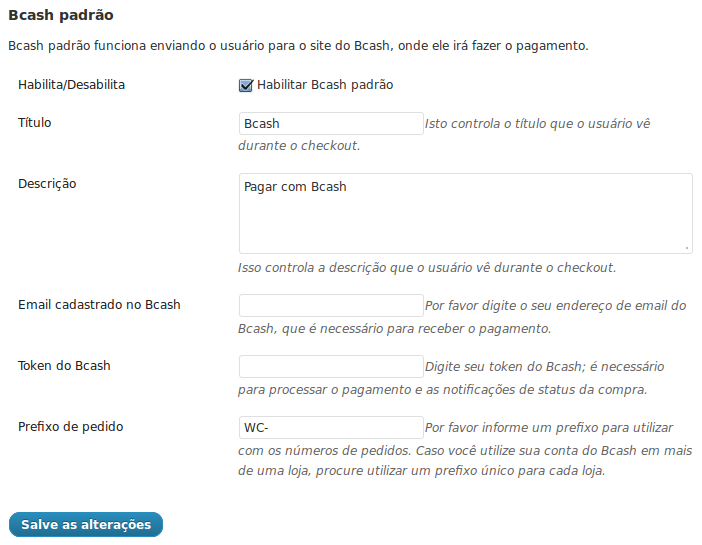
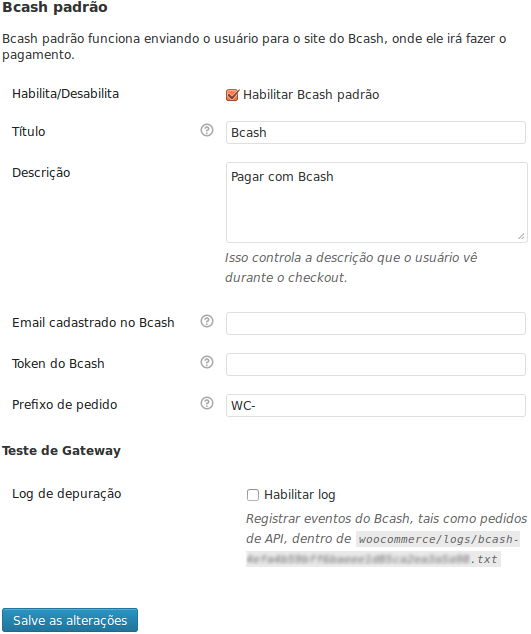
updated the plugin version to 1.6.0
git-svn-id: https://plugins.svn.wordpress.org/woocommerce-bcash/trunk@746842 b8457f37-d9ea-0310-8a92-e5e31aec5664

diff --git a/class-wc-bcash-gateway.php b/class-wc-bcash-gateway.php
@@ -19,7 +19,7 @@ class WC_BCash_Gateway extends WC_Payment_Gateway {
         $this->has_fields     = false;
         $this->method_title   = __( 'Bcash', 'wcbcash' );
 
-        // API Urls.
+        // API URLs.
         $this->payment_url    = 'https://www.bcash.com.br/checkout/pay/';
         $this->ipn_url        = 'https://www.bcash.com.br/checkout/verify/';
 
@@ -82,13 +82,10 @@ class WC_BCash_Gateway extends WC_Payment_Gateway {
         echo '<h3>' . __( 'Bcash standard', 'wcbcash' ) . '</h3>';
         echo '<p>' . __( 'Bcash standard works by sending the user to Bcash to enter their payment information.', 'wcbcash' ) . '</p>';
 
+        // Checks if is valid for use.
         if ( ! $this->is_valid_for_use() ) {
-
-            // Valid currency.
-            echo '<div class="inline error"><p><strong>' . __( 'Gateway Disabled', 'wcbcash' ) . '</strong>: ' . __( 'Bcash does not support your store currency.', 'wcbcash' ) . '</p></div>';
-
+            echo '<div class="inline error"><p><strong>' . __( 'Bcash Disabled', 'wcbcash' ) . '</strong>: ' . __( 'Works only with Brazilian Real.', 'wcbcash' ) . '</p></div>';
         } else {
-
             // Generate the HTML For the settings form.
             echo '<table class="form-table">';
             $this->generate_settings_html();
@@ -147,14 +144,14 @@ class WC_BCash_Gateway extends WC_Payment_Gateway {
             'testing' => array(
                 'title' => __( 'Gateway Testing', 'wcbcash' ),
                 'type' => 'title',
-                'description' => '',
+                'description' => ''
             ),
             'debug' => array(
                 'title' => __( 'Debug Log', 'wcbcash' ),
                 'type' => 'checkbox',
                 'label' => __( 'Enable logging', 'wcbcash' ),
                 'default' => 'no',
-                'description' => sprintf( __( 'Log Bcash events, such as API requests, inside %s', 'wcbcash' ), '<code>woocommerce/logs/moip' . sanitize_file_name( wp_hash( 'bcash' ) ) . '.txt</code>' ),
+                'description' => sprintf( __( 'Log Bcash events, such as API requests, inside %s', 'wcbcash' ), '<code>woocommerce/logs/bcash-' . sanitize_file_name( wp_hash( 'bcash' ) ) . '.txt</code>' )
             )
         );
 
@@ -281,7 +278,7 @@ class WC_BCash_Gateway extends WC_Payment_Gateway {
         if ( version_compare( WOOCOMMERCE_VERSION, '2.1', '>=' ) ) {
             $woocommerce->get_helper( 'inline-javascript' )->add_inline_js( '
                 jQuery.blockUI({
-                        message: "' . esc_js( __( 'Thank you for your order. We are now redirecting you to Bcash to make payment.', 'wcpagseguro' ) ) . '",
+                        message: "' . esc_js( __( 'Thank you for your order. We are now redirecting you to Bcash to make payment.', 'wcbcash' ) ) . '",
                         baseZ: 99999,
                         overlayCSS:
                         {
@@ -304,7 +301,7 @@ class WC_BCash_Gateway extends WC_Payment_Gateway {
         } else {
             $woocommerce->add_inline_js( '
                 jQuery("body").block({
-                        message: "<img src=\"' . esc_url( $woocommerce->plugin_url() . '/assets/images/ajax-loader.gif' ) . '\" alt=\"Redirecting&hellip;\" style=\"float:left; margin-right: 10px;\" />' . __( 'Thank you for your order. We are now redirecting you to Bcash to make payment.', 'wcpagseguro' ) . '",
+                        message: "<img src=\"' . esc_url( $woocommerce->plugin_url() . '/assets/images/ajax-loader.gif' ) . '\" alt=\"Redirecting&hellip;\" style=\"float:left; margin-right: 10px;\" />' . __( 'Thank you for your order. We are now redirecting you to Bcash to make payment.', 'wcbcash' ) . '",
                         overlayCSS:
                         {
                             background: "#fff",
@@ -369,7 +366,7 @@ class WC_BCash_Gateway extends WC_Payment_Gateway {
     }
 
     /**
-     * Check ipn.
+     * Check IPN.
      *
      * @return bool
      */
@@ -456,7 +453,7 @@ class WC_BCash_Gateway extends WC_Payment_Gateway {
 
                 switch ( $posted['cod_status'] ) {
                     case '0':
-                        $order->update_status( 'on-hold', __( 'Payment under review by Bcash.', 'wcbcash' ) );
+                        $order->update_status( 'on-hold', __( 'Bcash: Payment under review.', 'wcbcash' ) );
 
                         break;
                     case '1':
@@ -492,12 +489,12 @@ class WC_BCash_Gateway extends WC_Payment_Gateway {
                         }
 
                         // Payment completed.
-                        $order->add_order_note( __( 'Payment completed.', 'wcbcash' ) );
+                        $order->add_order_note( __( 'Bcash: Payment completed.', 'wcbcash' ) );
                         $order->payment_complete();
 
                         break;
                     case '2':
-                        $order->update_status( 'cancelled', __( 'Payment canceled by Bcash.', 'wcbcash' ) );
+                        $order->update_status( 'cancelled', __( 'Bcash: Payment canceled.', 'wcbcash' ) );
 
                         break;
 
@@ -515,7 +512,7 @@ class WC_BCash_Gateway extends WC_Payment_Gateway {
      * @return string Error Mensage.
      */
     public function mail_missing_message() {
-        echo '<div class="error"><p>' . sprintf( __( '<strong>Bcash Disabled</strong> You should inform your email address. %sClick here to configure!%s', 'wcbcash' ), '<a href="' . admin_url( 'admin.php?page=woocommerce_settings&tab=payment_gateways&section=WC_BCash_Gateway' ) . '">', '</a>' ) . '</p></div>';
+        echo '<div class="error"><p><strong>' . __( 'Bcash Disabled', 'wcbcash' ) . '</strong>: ' . sprintf( __( 'You should inform your email address. %s', 'wcbcash' ), '<a href="' . admin_url( 'admin.php?page=woocommerce_settings&tab=payment_gateways&section=WC_BCash_Gateway' ) . '">' . __( 'Click here to configure!', 'wcbcash' ) . '</a>' ) . '</p></div>';
     }
 
     /**
@@ -524,7 +521,7 @@ class WC_BCash_Gateway extends WC_Payment_Gateway {
      * @return string Error Mensage.
      */
     public function token_missing_message() {
-        echo '<div class="error"><p>' . sprintf( __( '<strong>Bcash Disabled</strong> You should inform your token. %sClick here to configure!%s', 'wcbcash' ), '<a href="' . admin_url( 'admin.php?page=woocommerce_settings&tab=payment_gateways&section=WC_BCash_Gateway' ) . '">', '</a>' ) . '</p></div>';
+        echo '<div class="error"><p><strong>' . __( 'Bcash Disabled', 'wcbcash' ) . '</strong>: ' . sprintf( __( 'You should inform your token. %s', 'wcbcash' ), '<a href="' . admin_url( 'admin.php?page=woocommerce_settings&tab=payment_gateways&section=WC_BCash_Gateway' ) . '">' . __( 'Click here to configure!', 'wcbcash' ) . '</a>' ) . '</p></div>';
     }
 
 }

diff --git a/wc-bcash.php b/wc-bcash.php
@@ -5,7 +5,7 @@
  * Description: Gateway de pagamento Bcash para WooCommerce.
  * Author: claudiosanches
  * Author URI: http://claudiosmweb.com/
- * Version: 1.5.0
+ * Version: 1.6.0
  * License: GPLv2 or later
  * Text Domain: wcbcash
  * Domain Path: /languages/
@@ -35,11 +35,11 @@ function wcbcash_gateway_load() {
     load_plugin_textdomain( 'wcbcash', false, dirname( plugin_basename( __FILE__ ) ) . '/languages/' );
 
     /**
-     * Add the gateway.
+     * Add the gateway to WooCommerce.
      *
-     * @access public
-     * @param array $methods
-     * @return array
+     * @param  array $methods WooCommerce payment methods.
+     *
+     * @return array          Payment methods with Bcash.
      */
     add_filter( 'woocommerce_payment_gateways', 'wcbcash_add_gateway' );
 
